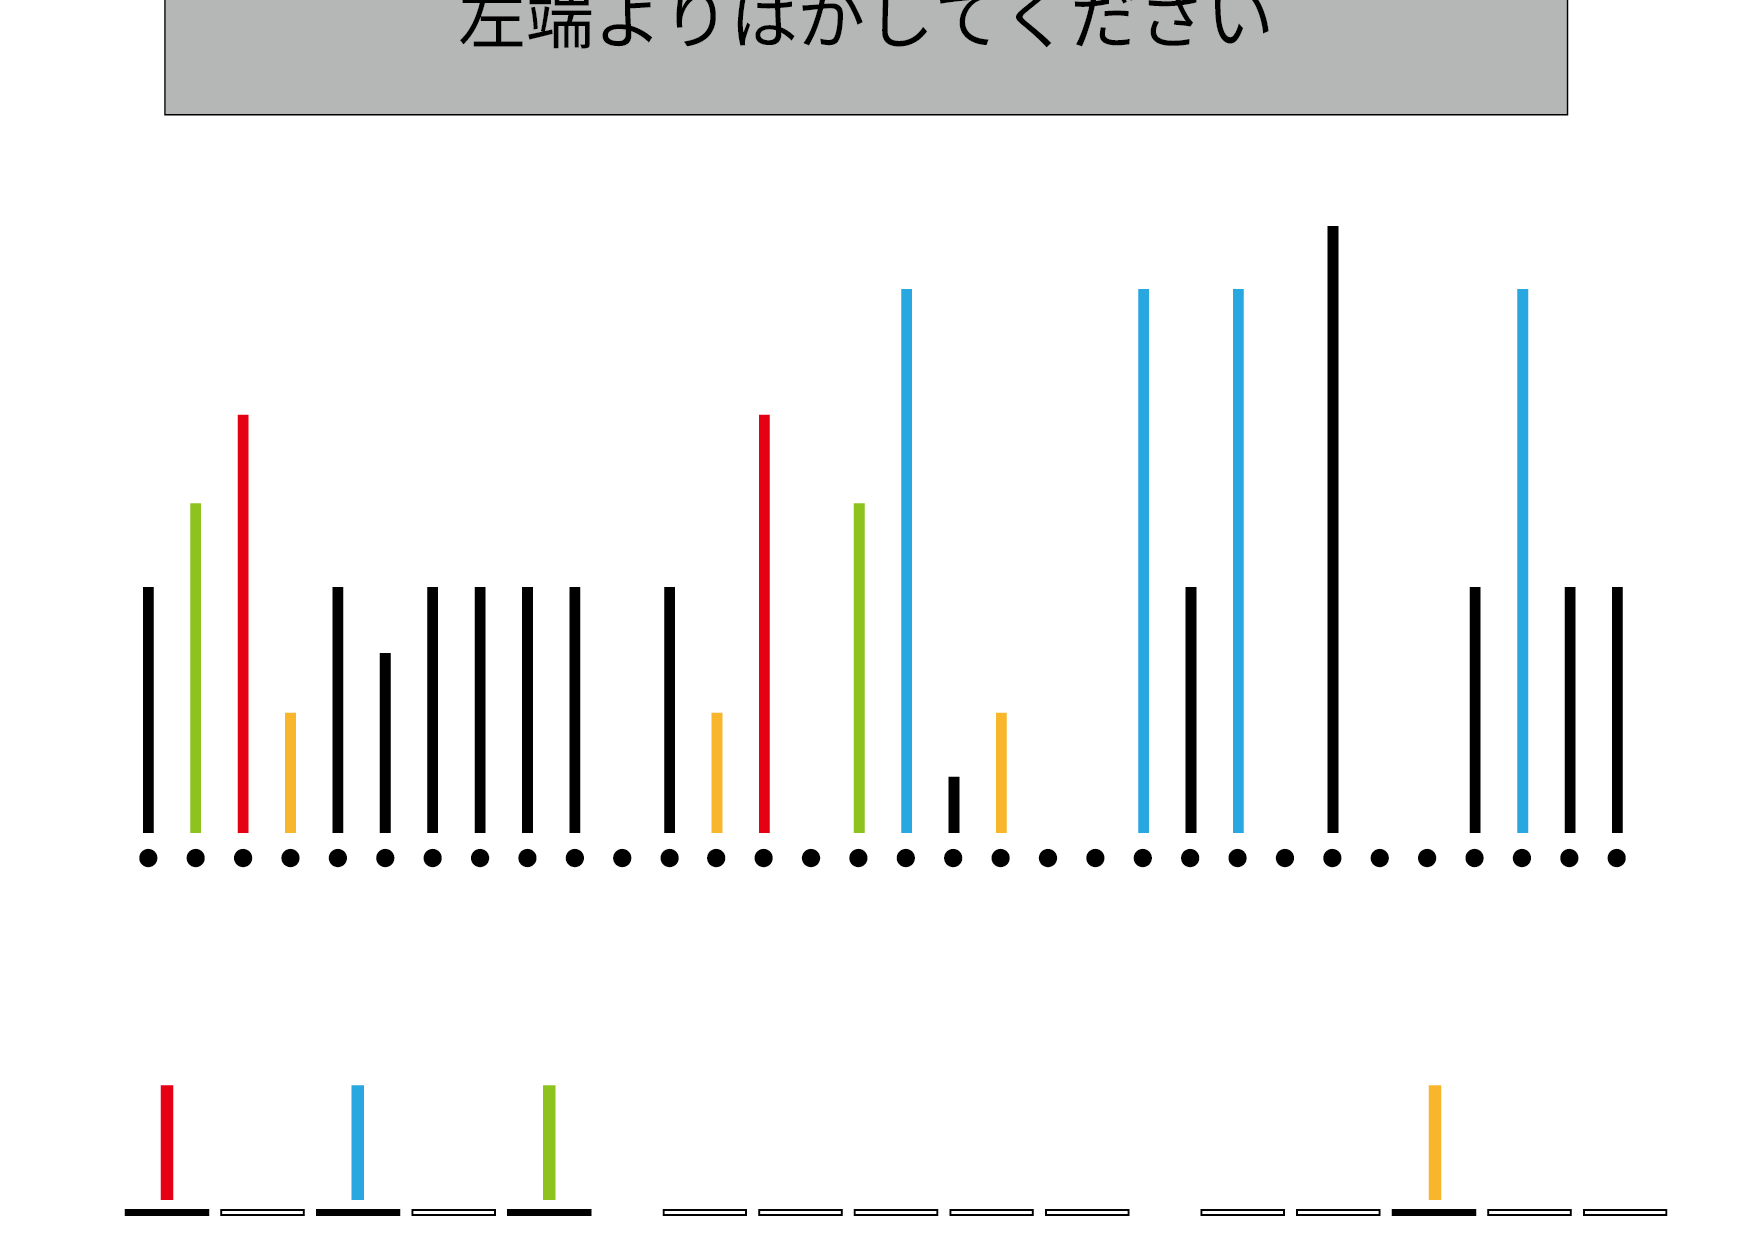
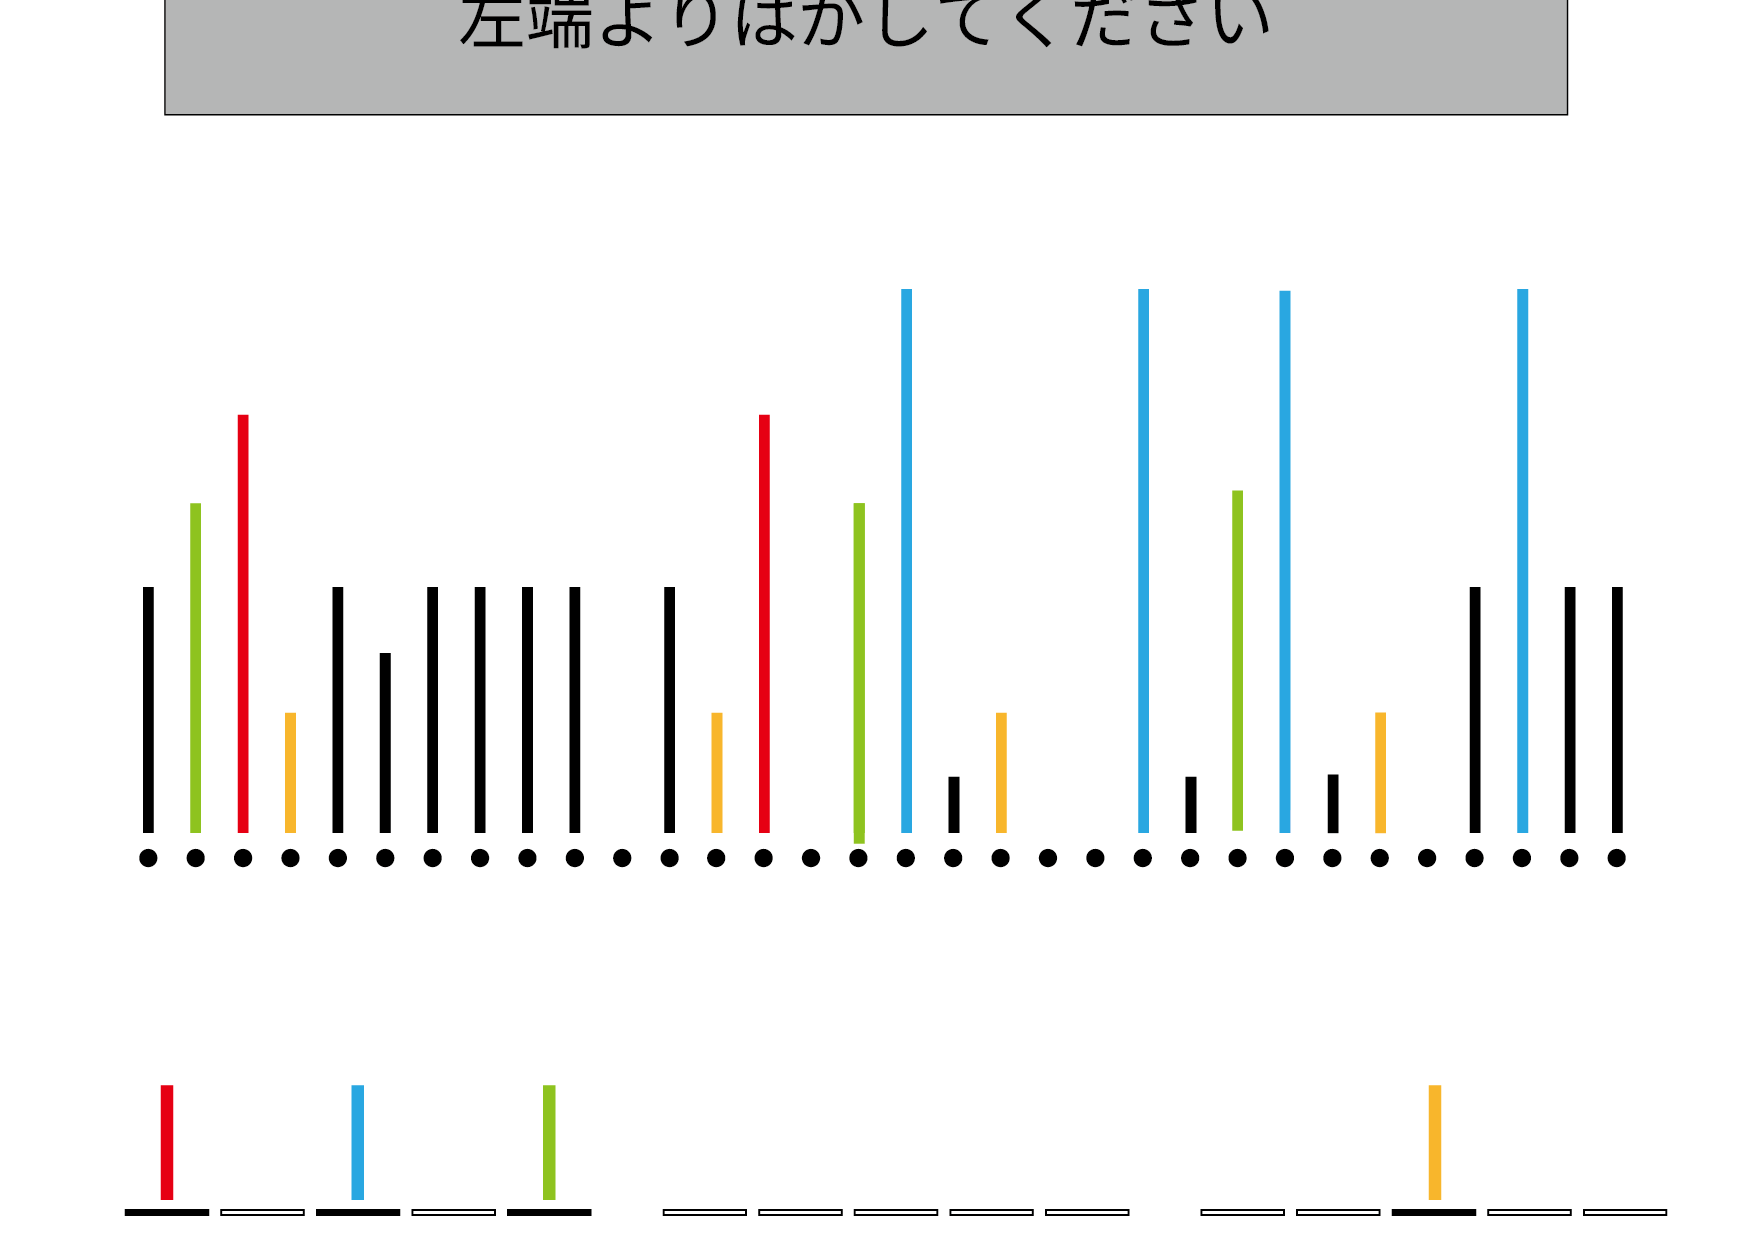
Add files via upload

Changed region(s): [[0.6769, 0.1836, 0.8, 0.6731]]

diff --git a/style.css b/style.css
@@ -159,81 +159,108 @@ select {
   gap: 14px;
 }
 
-.code-grid {
-  display: grid;
-  grid-template-columns:
-    repeat(5, minmax(0, 1fr)) 6px
-    repeat(5, minmax(0, 1fr)) 6px
-    repeat(5, minmax(0, 1fr));
-  gap: 3px;
+.code-entry {
+  position: relative;
 }
 
-.code-input {
+.code-hidden-input {
+  position: absolute;
+  inset: 0;
+  z-index: 2;
+  width: 100%;
+  height: 100%;
+  border: 0;
+  opacity: 0;
+  color: transparent;
+  background: transparent;
+  caret-color: transparent;
+  font-size: 16px;
+}
+
+.code-grid {
+  position: relative;
+  z-index: 1;
+  display: grid;
+  grid-template-columns: repeat(8, minmax(0, 42px));
+  justify-content: center;
+  gap: 7px;
+}
+
+.code-cell {
+  display: grid;
   width: 100%;
   min-width: 0;
   aspect-ratio: 1;
+  place-items: center;
   border: 2px solid rgba(255, 20, 147, 0.5);
   border-radius: 5px;
   background: #0f0f14;
   color: var(--text);
-  text-align: center;
-  font-size: 16px;
+  font-size: 20px;
   font-weight: 800;
   text-transform: uppercase;
-  outline: none;
 }
 
-.code-input:nth-child(6) {
+.code-cell:nth-child(6) {
+  grid-column: 2;
+  transform: translateX(50%);
+}
+
+.code-cell:nth-child(7) {
+  grid-column: 3;
+  transform: translateX(50%);
+}
+
+.code-cell:nth-child(8) {
+  grid-column: 4;
+  transform: translateX(50%);
+}
+
+.code-cell:nth-child(9) {
+  grid-column: 5;
+  transform: translateX(50%);
+}
+
+.code-cell:nth-child(10) {
+  grid-column: 6;
+  transform: translateX(50%);
+}
+
+.code-cell:nth-child(11) {
+  grid-column: 4;
+}
+
+.code-cell:nth-child(12) {
+  grid-column: 5;
+}
+
+.code-cell:nth-child(13) {
+  grid-column: 6;
+}
+
+.code-cell:nth-child(14) {
   grid-column: 7;
 }
 
-.code-input:nth-child(7) {
+.code-cell:nth-child(15) {
   grid-column: 8;
 }
 
-.code-input:nth-child(8) {
-  grid-column: 9;
+.code-entry:focus-within .code-cell {
+  box-shadow: 0 0 0 1px rgba(255, 20, 147, 0.12);
 }
 
-.code-input:nth-child(9) {
-  grid-column: 10;
-}
-
-.code-input:nth-child(10) {
-  grid-column: 11;
-}
-
-.code-input:nth-child(11) {
-  grid-column: 13;
-}
-
-.code-input:nth-child(12) {
-  grid-column: 14;
-}
-
-.code-input:nth-child(13) {
-  grid-column: 15;
-}
-
-.code-input:nth-child(14) {
-  grid-column: 16;
-}
-
-.code-input:nth-child(15) {
-  grid-column: 17;
-}
-
-.code-input:focus {
+.code-cell.is-active {
   border-color: var(--pink);
   box-shadow: 0 0 0 3px rgba(255, 20, 147, 0.18);
 }
 
-.code-input.is-correct {
+.code-cell.is-correct {
   border-color: var(--blue);
   box-shadow: 0 0 12px rgba(22, 168, 255, 0.36);
 }
 
-.code-input.is-wrong {
+.code-cell.is-wrong {
   border-color: var(--red);
   box-shadow: 0 0 12px rgba(255, 47, 85, 0.3);
 }

diff --git a/script.js b/script.js
@@ -1,4 +1,4 @@
-const assetVersion = "20260711-1705";
+const assetVersion = "20260711-1722";
 
 const puzzleImages = [
   {
@@ -31,6 +31,7 @@ const answerSection = document.getElementById("answerSection");
 const answerPlaceholder = document.getElementById("answerPlaceholder");
 const answerForm = document.getElementById("answerForm");
 const codeGrid = document.getElementById("codeGrid");
+const codeInput = document.getElementById("codeInput");
 const clearModal = document.getElementById("clearModal");
 const clearModalClose = document.getElementById("clearModalClose");
 const clearImage = document.getElementById("clearImage");
@@ -48,27 +49,25 @@ puzzleImages.forEach((item, index) => {
   puzzleGrid.append(card);
 });
 
-const codeInputs = Array.from({ length: correctCode.length }, (_, index) => {
-  const input = document.createElement("input");
-  input.className = "code-input";
-  input.type = "text";
-  input.inputMode = "text";
-  input.autocomplete = "off";
-  input.autocapitalize = "characters";
-  input.spellcheck = false;
-  input.maxLength = 1;
-  input.pattern = "[A-Za-z0-9]";
-  input.setAttribute("aria-label", `${index + 1}文字目`);
+const codeCells = Array.from({ length: correctCode.length }, (_, index) => {
+  const cell = document.createElement("button");
+  cell.className = "code-cell";
+  cell.type = "button";
+  cell.setAttribute("aria-label", `${index + 1}文字目`);
+  cell.addEventListener("click", () => focusCodeInput(index));
 
-  input.addEventListener("beforeinput", handleCodeBeforeInput);
-  input.addEventListener("input", (event) => handleCodeInput(event, index));
-  input.addEventListener("compositionend", (event) => handleCodeInput(event, index));
-  input.addEventListener("keydown", (event) => handleCodeKeydown(event, index));
-  input.addEventListener("paste", (event) => handleCodePaste(event, index));
-
-  codeGrid.append(input);
-  return input;
+  codeGrid.append(cell);
+  return cell;
 });
+
+codeInput.addEventListener("beforeinput", handleCodeBeforeInput);
+codeInput.addEventListener("input", handleCodeInput);
+codeInput.addEventListener("compositionend", handleCodeInput);
+codeInput.addEventListener("keydown", handleCodeKeydown);
+codeInput.addEventListener("focus", renderCodeCells);
+codeInput.addEventListener("blur", renderCodeCells);
+codeInput.addEventListener("selectionchange", renderCodeCells);
+codeInput.addEventListener("click", renderCodeCells);
 
 answerForm.addEventListener("submit", (event) => {
   event.preventDefault();
@@ -82,7 +81,7 @@ updateAnswerPosition();
 
 window.addEventListener("scroll", updateAnswerPosition, { passive: true });
 window.addEventListener("resize", () => {
-  if (document.activeElement && document.activeElement.classList.contains("code-input")) {
+  if (document.activeElement === codeInput) {
     return;
   }
 
@@ -141,59 +140,33 @@ function handleCodeBeforeInput(event) {
   }
 }
 
-function handleCodeInput(event, index) {
+function handleCodeInput(event) {
   if (event.isComposing) {
     return;
   }
 
-  const normalized = normalizeCode(event.target.value);
-  event.target.value = normalized.slice(0, 1);
-  event.target.classList.remove("is-correct", "is-wrong");
-
-  if (normalized.length > 1) {
-    fillCode(normalized, index);
-    return;
-  }
-
-  if (normalized && index < codeInputs.length - 1) {
-    codeInputs[index + 1].focus();
-  }
+  const cursor = codeInput.selectionStart || 0;
+  const normalized = normalizeCode(codeInput.value).slice(0, correctCode.length);
+  codeInput.value = normalized;
+  codeInput.setSelectionRange(Math.min(cursor, normalized.length), Math.min(cursor, normalized.length));
+  renderCodeCells();
 }
 
-function handleCodeKeydown(event, index) {
-  if (event.key === "Backspace" && !event.target.value && index > 0) {
-    codeInputs[index - 1].focus();
+function handleCodeKeydown(event) {
+  if (event.key === "Enter") {
+    event.preventDefault();
+    judgeAnswer();
   }
-}
-
-function handleCodePaste(event, index) {
-  event.preventDefault();
-  const pasted = normalizeCode(event.clipboardData.getData("text"));
-  fillCode(pasted, index);
-}
-
-function fillCode(value, startIndex) {
-  value
-    .slice(0, codeInputs.length - startIndex)
-    .split("")
-    .forEach((character, offset) => {
-      const input = codeInputs[startIndex + offset];
-      input.value = character;
-      input.classList.remove("is-correct", "is-wrong");
-    });
-
-  const nextIndex = Math.min(startIndex + value.length, codeInputs.length - 1);
-  codeInputs[nextIndex].focus();
 }
 
 function judgeAnswer() {
-  const answer = codeInputs.map((input) => normalizeCode(input.value)).join("");
+  const answer = normalizeCode(codeInput.value).slice(0, correctCode.length);
   const isPerfect = answer === correctCode;
 
-  codeInputs.forEach((input, index) => {
-    const isCorrect = normalizeCode(input.value) === correctCode[index];
-    input.classList.toggle("is-correct", isCorrect);
-    input.classList.toggle("is-wrong", !isCorrect);
+  codeCells.forEach((cell, index) => {
+    const isCorrect = answer[index] === correctCode[index];
+    cell.classList.toggle("is-correct", isCorrect);
+    cell.classList.toggle("is-wrong", !isCorrect);
   });
 
   if (isPerfect) {
@@ -233,6 +206,27 @@ document.addEventListener("keydown", (event) => {
 
 function closeClearModal() {
   clearModal.hidden = true;
+}
+
+function focusCodeInput(index) {
+  codeInput.focus();
+  codeInput.setSelectionRange(index, index);
+  renderCodeCells();
+}
+
+function renderCodeCells() {
+  const answer = normalizeCode(codeInput.value).slice(0, correctCode.length);
+  const activeIndex = Math.min(codeInput.selectionStart || answer.length, correctCode.length - 1);
+
+  if (codeInput.value !== answer) {
+    codeInput.value = answer;
+  }
+
+  codeCells.forEach((cell, index) => {
+    cell.textContent = answer[index] || "";
+    cell.classList.remove("is-correct", "is-wrong");
+    cell.classList.toggle("is-active", document.activeElement === codeInput && index === activeIndex);
+  });
 }
 
 function normalizeCode(value) {

diff --git a/index.html b/index.html
@@ -4,14 +4,14 @@
     <meta charset="utf-8" />
     <meta name="viewport" content="width=device-width, initial-scale=1" />
     <title>xxx</title>
-    <link rel="stylesheet" href="style.css?v=20260711-1705" />
+    <link rel="stylesheet" href="style.css?v=20260711-1722" />
   </head>
   <body>
     <main class="site-shell">
       <section class="guide" aria-label="案内">
         <img
           class="guide__image"
-          src="xxx.webp?v=20260711-1705"
+          src="xxx.webp?v=20260711-1722"
           alt="案内文"
         />
       </section>
@@ -20,7 +20,20 @@
       <section class="answer-section" id="answerSection" aria-labelledby="answer-title">
         <h1 class="answer-section__title" id="answer-title">ANSWER</h1>
         <form class="answer-form" id="answerForm">
-          <div class="code-grid" id="codeGrid" aria-label="15桁の回答入力"></div>
+          <div class="code-entry">
+            <input
+              class="code-hidden-input"
+              id="codeInput"
+              type="text"
+              inputmode="text"
+              autocomplete="off"
+              autocapitalize="characters"
+              spellcheck="false"
+              maxlength="15"
+              aria-label="15桁の回答入力"
+            />
+            <div class="code-grid" id="codeGrid" aria-hidden="true"></div>
+          </div>
           <button class="judge-button" type="submit">判定</button>
         </form>
 
@@ -47,7 +60,7 @@
         <img
           class="clear-modal__image"
           id="clearImage"
-          src="clear.webp?v=20260711-1705"
+          src="clear.webp?v=20260711-1722"
           alt="正解メッセージ"
         />
         <p class="clear-modal__fallback" id="clearFallback" hidden>
@@ -56,6 +69,6 @@
       </div>
     </div>
 
-    <script src="script.js?v=20260711-1705"></script>
+    <script src="script.js?v=20260711-1722"></script>
   </body>
 </html>